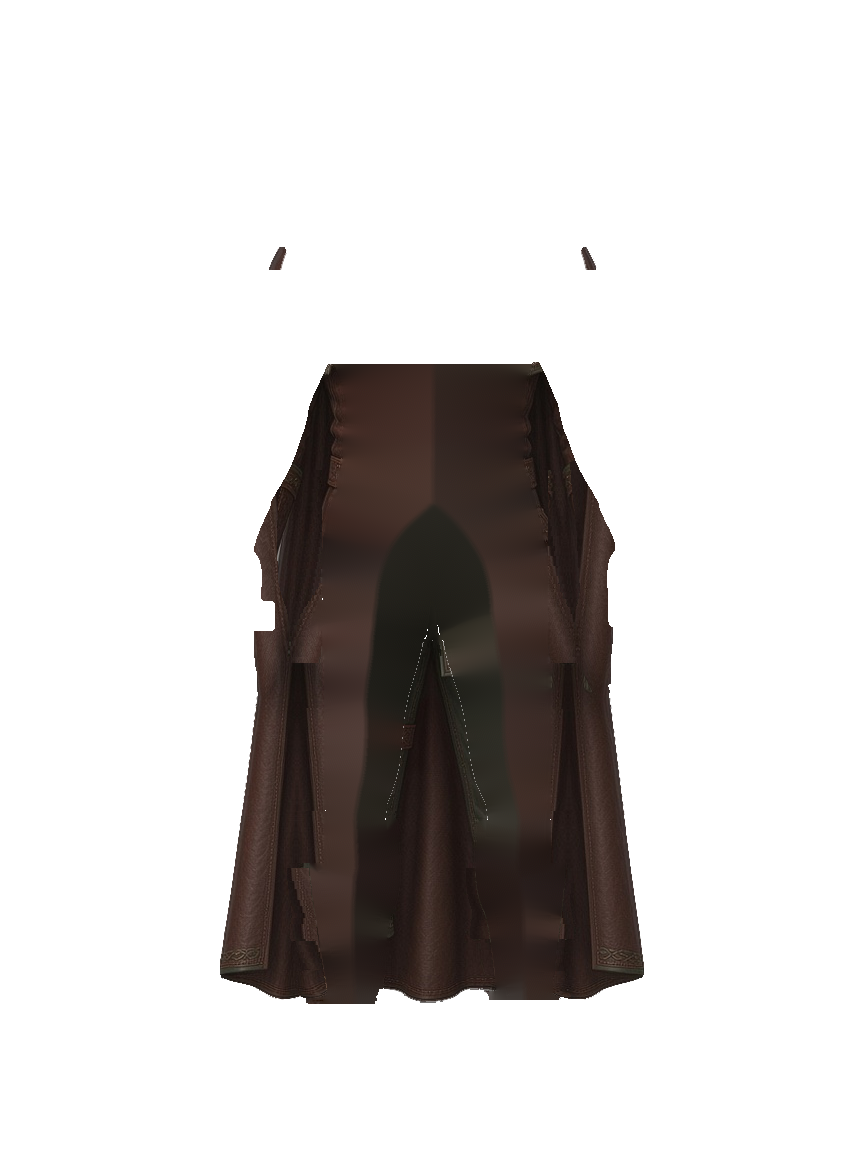
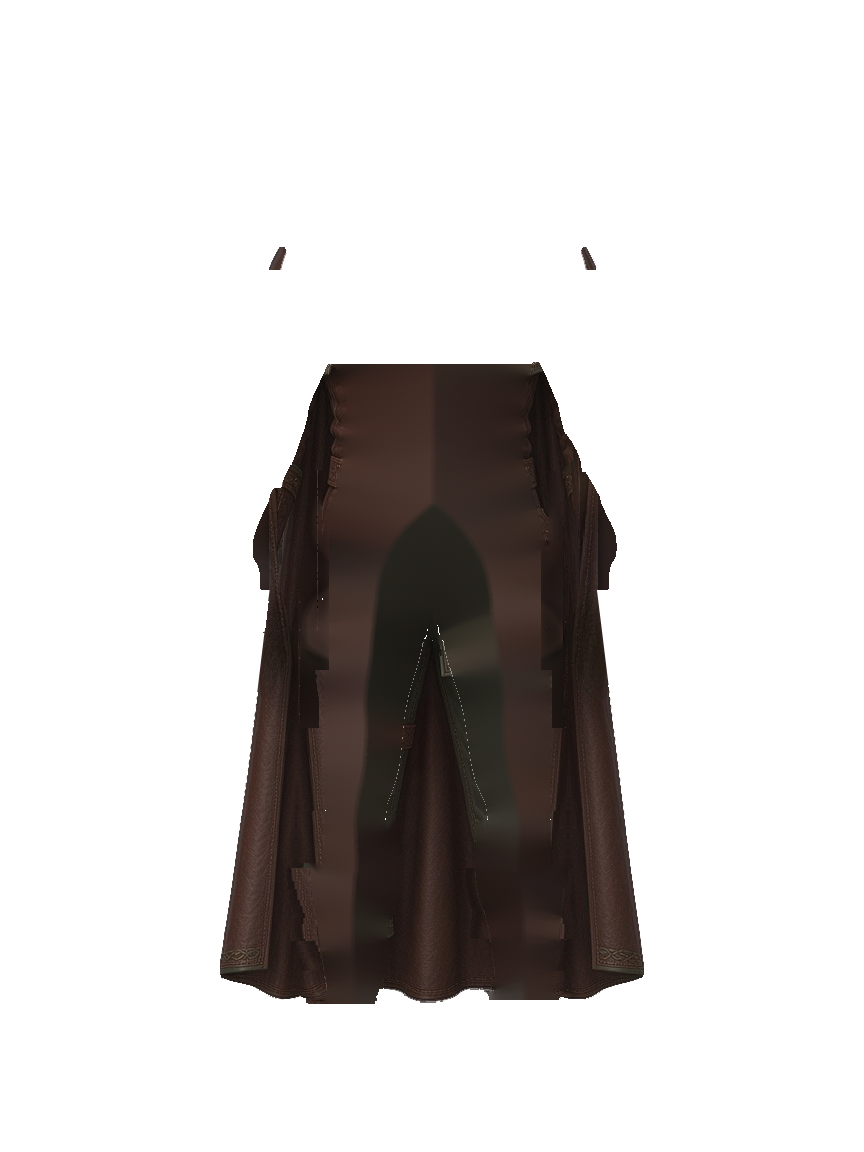
Leather tester: green cloak hangs naturally behind the arms - outer edge follows a straight drape line (painted hem edge carried up under the arm) instead of the old green arm/hand outline, area beside/below the arms re-textured from the shown lining (no flat arm-shaped blocks or hard steps), olive 

diff --git a/dolltest/v5/layers.html b/dolltest/v5/layers.html
@@ -129,7 +129,7 @@
     let face = 1;      // 0 = original baked head, 1-10 = new head layers
     let hair = 1;      // 0 = none, 1-10
     // Bump this whenever layer PNGs change so iOS Safari does not keep stale tiles.
-    const LAYER_V = "20261117-green-cloak-hands";
+    const LAYER_V = "20261117-green-cloak-drape";
     const ONBASE = ["common", "masterwork", "green"];  // tiers cut from Art's on-base paintings
     // Tiers with hidden pants/boots underlaps (drawn only when both are on) so mixing
     // with another tier's boots or pants does not leave a strip of bare leg.
